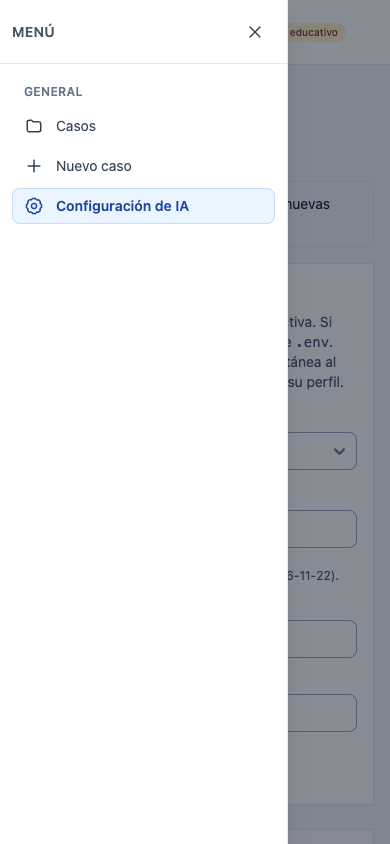
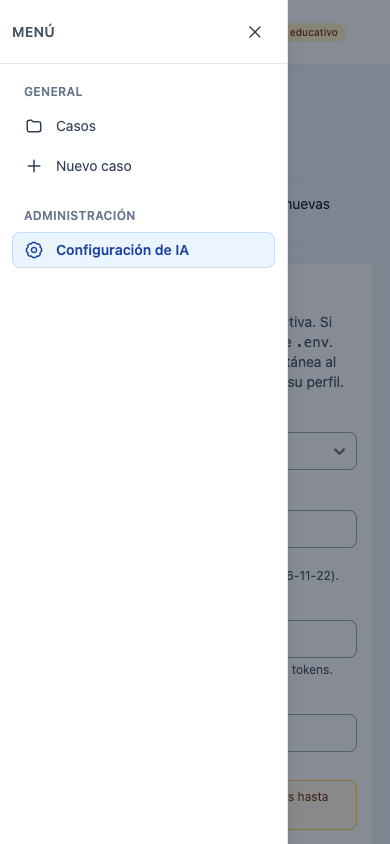
docs(005): record administration nav and local model semantics

diff --git a/docs/evidencia/005-configuracion-ui/README.md b/docs/evidencia/005-configuracion-ui/README.md
@@ -7,19 +7,24 @@ no aceptados; T039 real pendiente.
 
 ## Ruta
 
-`/settings/ai` — «Configuración de IA» en el menú **General**, fuera del contexto de un caso.
+`/settings/ai` — «Configuración de IA» en el grupo **Administración** del menú principal, fuera del
+contexto de un caso y disponible en escritorio y móvil. «Administración» solo agrupa opciones; no
+implica autenticación ni roles.
 
 ## Funcionalidad
 
 - Selección explícita: Local — Ollama, DeepSeek, Claude — Anthropic.
-- Modelo asociado, máximo de tokens de salida y tiempo máximo por llamada.
+- Modelo asociado, máximo de tokens de salida (solo externos) y tiempo máximo por llamada.
+- **Ollama**: sin claves, sin presupuesto monetario y sin cuota comercial. La reserva de salida se
+  administra automáticamente dentro del contexto técnico; no se solicita cuota de tokens. Se muestra
+  «Ejecución local; sin cobro por tokens de API» sin afirmar costo operativo total cero.
 - Guardado en SQLite; sin editar código ni reiniciar el servidor.
 - Perfiles independientes por proveedor; cambiar de proveedor no arrastra modelos ni sobrescribe
   parámetros de otro.
-- Resumen de configuración activa, presupuestos global y por turno (USD) y disponibilidad de
-  credenciales.
+- Resumen de configuración activa, presupuestos externos global y por turno (USD) y disponibilidad
+  de credenciales.
 - Claves: solo «Clave configurada» / «Clave pendiente» / «No requiere». No se envían valores,
-  fragmentos ni máscaras.
+  fragmentos ni máscaras; presencia no equivale a credencial válida ni conexión verificada.
 - Conexión: «No verificada». Guardar no verifica conexión ni autoriza gasto.
 - Proveedor externo con presupuesto cero:
   «Configurado; consultas externas bloqueadas hasta autorizar presupuesto.»
@@ -29,9 +34,11 @@ no aceptados; T039 real pendiente.
 1. Selección guardada en `ai_configuration`/`ai_provider_profiles`.
 2. Si no existe, valores iniciales de `Settings`/`.env`.
 3. `.env` conserva claves, endpoints y presupuestos; la interfaz no lo modifica.
-4. `SECGUARD_GENERATION_MODEL` vacío usa el modelo predeterminado del proveedor cuando no hay
+4. Los límites externos se validan contra el proveedor/modelo seleccionado, no contra el proveedor
+   inicial de la aplicación.
+5. `SECGUARD_GENERATION_MODEL` vacío usa el modelo predeterminado del proveedor cuando no hay
    selección guardada.
-5. Cada turno toma una instantánea; una consulta en curso conserva proveedor, modelo, límites,
+6. Cada turno toma una instantánea; una consulta en curso conserva proveedor, modelo, límites,
    timeout y autorización.
 
 ## Variables de `.env` (sin secretos)
@@ -62,14 +69,15 @@ confirmado» y no declara conexión aprobada. Un modelo confirmado de otro prove
 
 ```text
 make check
-  → 670 passed, 37 deselected, 17 warnings
+  → 677 passed, 37 deselected, 17 warnings
 ```
 
 | Prueba | Resultado |
 |---|---|
-| `tests/unit/test_ai_config_service.py` | 7 passed |
-| `tests/contract/test_ai_settings_routes.py` | 10 passed |
+| `tests/unit/test_ai_config_service.py` | 9 passed |
+| `tests/contract/test_ai_settings_routes.py` | 12 passed |
 | `tests/unit/test_ai_config_turn.py` | 4 passed |
+| `tests/contract/test_chat_resource_cleanup.py` | 3 passed |
 | Regresión R1–R3 | verde dentro de `make check` |
 
 Playwright (servidor local con almacenamiento temporal, `.env` real solo leído):
@@ -80,8 +88,9 @@ Playwright (servidor local con almacenamiento temporal, `.env` real solo leído)
 - Cambio a Ollama y regreso a DeepSeek conserva 64/12.5 del perfil DeepSeek.
 - Móvil 390×844: menú general, foco en cerrar, Escape, sin overflow (`scrollWidth == clientWidth`).
 - Consola: 0 errores.
-- Capturas: `settings-desktop.png`, `settings-saved-deepseek.png`, `settings-mobile.png`,
-  `settings-mobile-menu.png`. No contienen claves.
+- Capturas: `settings-desktop-local.png`, `settings-desktop-external.png`,
+  `settings-saved-deepseek.png`, `settings-mobile.png`, `settings-mobile-menu.png`. No contienen
+  claves.
 
 ## Garantías conservadas
 
@@ -96,6 +105,8 @@ Playwright (servidor local con almacenamiento temporal, `.env` real solo leído)
 
 - No se ejecutaron llamadas externas reales; las claves están configuradas pero no hay presupuesto
   autorizado en esta instrucción.
+- Ollama funciona con presupuesto externo cero o agotado y no crea reservas económicas externas.
+- El cierre de recursos propios se probó en éxito, error de modelo y fallo de preparación.
 - Guardar no prueba la conexión ni el modelo; no hay botones de prueba automática.
 - No se hace conteo remoto durante el guardado.
 - T039 real sigue pendiente.

diff --git a/.specify/memory/constitution.md b/.specify/memory/constitution.md
@@ -574,7 +574,7 @@ es un enlace simbólico a ese archivo. NO se mantienen dos documentos editados p
 | 2026-11-22 | 005 Entrega 1 implementada: configuración explícita, protocolo/registro común, Ollama operativo, `ToolDecision.arguments` tipado, migración aditiva y evidencia con proveedor/identidad/costo no aplicable | Estado de implementación | IV, VIII, XI, XIII | Evidencia en `docs/evidencia/005-entrega-1/`; `make check` 585 passed; regresión real con Ollama/Qdrant verde; los proveedores externos siguen sin implementar y 005 no se declara aceptada |
 | 2026-11-22 | 005 Entrega 2 implementada: adaptadores DeepSeek/Anthropic, contexto por proveedor, costo, presupuesto, autorización por caso, bloqueo de herramientas importadas, redacción y evidencia de uso | Estado de implementación | IV, VIII, XI, XIII | Evidencia en `docs/evidencia/005-entrega-2/`; pruebas contra transporte HTTP simulado; sin llamadas reales ni presupuesto aprobado; ningún proveedor externo se declara aceptado en uso real; 005 no aceptada |
 | 2026-11-22 | 005 Entrega 3: correcciones R1–R3, comparación local con Ollama real, comparación externa simulada y regresión final; aceptación local parcial | Estado de implementación | IV, VIII, IX, XI, XIII | Evidencia en `docs/evidencia/005-entrega-3/`; `make check` 649 passed; `make test-integration` 37 passed; 8/8 citas y 2/2 abstenciones en 10 preguntas ficticias; T039 real pendiente; proveedores externos no medidos ni aceptados; sin presupuesto aprobado |
-| 2026-11-22 | 005 Configuración de IA desde `/settings/ai`: selección de proveedor/modelo/límites no secretos persistida en SQLite, perfiles independientes y instantánea por turno; claves, endpoints y presupuestos permanecen en `.env` | Estado de implementación | IV, VIII, XI, XIII | Evidencia en `docs/evidencia/005-configuracion-ui/`; `make check` 669 passed; sin llamadas externas al abrir/guardar; guardar no verifica conexión ni autoriza gasto; T039 externo real sigue pendiente |
+| 2026-11-22 | 005 Configuración de IA desde `/settings/ai` (grupo Administración): selección de proveedor/modelo/límites no secretos persistida en SQLite, perfiles independientes y instantánea por turno; Ollama sin cuota comercial ni presupuesto monetario, límites externos por proveedor/modelo; claves, endpoints y presupuestos permanecen en `.env` | Estado de implementación | IV, VIII, XI, XIII | Evidencia en `docs/evidencia/005-configuracion-ui/`; `make check` 669 passed; sin llamadas externas al abrir/guardar; guardar no verifica conexión ni autoriza gasto; T039 externo real sigue pendiente |
 | Pendiente | Evidencia de acuerdo de Cristian Quebrada y Ruben Dario Sabogal para la enmienda 1.3.0 | Pendiente | Gobernanza | La ratificación del responsable está registrada; no se inventan acuerdos del equipo |
 | Pendiente | Presupuesto API para Claude Haiku / DeepSeek | Pendiente | IV, XI | No se activan llamadas pagadas ni se crean cuentas |
 | Pendiente | Selección del proveedor API y del canal definitivo de acción | Pendiente | IV, XIV | Requiere evidencia de 005/006; no se declara ganador |

diff --git a/docs/planificacion/005-ultimo-resultado.md b/docs/planificacion/005-ultimo-resultado.md
@@ -106,27 +106,34 @@ T039 real pendiente. T042 registra aceptación parcial, no integral.
 
 ## Configuración de IA desde la interfaz (T043–T048)
 
-- Ruta `/settings/ai`, en el menú General, fuera de un caso.
-- Selección de proveedor, modelo, máximo de salida y timeout; guardado en SQLite mediante
+- Ruta `/settings/ai`, en el grupo **Administración** del menú general, fuera de un caso y disponible en escritorio y móvil. El grupo no implica autenticación ni roles.
+- Selección de proveedor, modelo, máximo de salida (solo externos) y timeout; guardado en SQLite mediante
   `ai_configuration` y `ai_provider_profiles` (migración `f7a8b9c0d1e2`).
 - Precedencia: configuración guardada > `Settings`/`.env`; `.env` conserva claves, endpoints y
   presupuestos y no se modifica. `SECGUARD_GENERATION_MODEL` vacío usa el modelo predeterminado.
 - Perfiles independientes por proveedor; cambiar de proveedor no arrastra modelos ni sobrescribe
   parámetros de otro.
+- Ollama no exige clave ni presupuesto monetario; su reserva de salida es automática dentro del
+  contexto técnico y se muestra «Ejecución local; sin cobro por tokens de API». No se afirma costo
+  operativo cero.
+- Los límites externos se validan contra el proveedor/modelo seleccionado; cambiar de proveedor no
+  arrastra modelos ni altera consultas en curso.
 - Cada turno usa una instantánea; una consulta en curso conserva su perfil. Los reintentos usan la
   autorización vigente y registran los parámetros efectivos.
+- Los recursos propios del turno (generador, contador, embeddings e índice) se cierran en éxito,
+  error y fallo de preparación; no se cierran recursos inyectados o compartidos.
 - El formulario muestra presupuestos global/por turno, moneda y «Clave configurada»/«Clave
   pendiente»; nunca valores, fragmentos ni máscaras. Conexión: «No verificada».
 - Un externo con presupuesto cero muestra «Configurado; consultas externas bloqueadas hasta
   autorizar presupuesto». Guardar no autoriza gasto ni envía datos.
 - No hay llamadas externas ni conteo remoto al abrir o guardar.
 
-Pruebas nuevas: `tests/unit/test_ai_config_service.py` (7), `tests/contract/test_ai_settings_routes.py`
-(10) y `tests/unit/test_ai_config_turn.py` (4). Playwright validó escritorio y móvil, guardado,
+Pruebas nuevas: `tests/unit/test_ai_config_service.py` (9), `tests/contract/test_ai_settings_routes.py`
+(12) y `tests/unit/test_ai_config_turn.py` (4); cierre de recursos (3). Playwright validó escritorio y móvil, guardado,
 cambio de perfiles, mensajes, foco, Escape, ausencia de overflow y consola sin errores. Capturas en
 `docs/evidencia/005-configuracion-ui/`.
 
-`make check`: **670 passed**, 37 deselected.
+`make check`: **677 passed**, 37 deselected.
 
 ## Limitaciones
 

diff --git a/specs/005-generador-configurable/tasks.md b/specs/005-generador-configurable/tasks.md
@@ -8,7 +8,7 @@ checklists/requirements.md
 **Tests**: incluidas porque la constitución aplica test-first cuando existe una prueba determinista y
 un resultado esperado claro.
 
-**Estado**: T001–T038, T040–T042 y T043–T048 completadas. T039 real permanece pendiente por
+**Estado**: T001–T038, T040–T042 y T043–T049 completadas. T039 real permanece pendiente por
 ausencia de presupuesto y credenciales; su versión simulada está ejecutada. 005 tiene aceptación
 local parcial; no se declara aceptación de proveedores externos ni se realizaron llamadas externas
 pagadas.
@@ -423,6 +423,15 @@ regresión completa verde; documentación final y decisión de aceptación basad
   - Dep: T047
   - Check: documentación vigente sin secretos; T039 sigue pendiente.
   - Evidence: diffs y `docs/evidencia/005-configuracion-ui/README.md`.
+
+- [x] T049 Ajustar la configuración local sin cuotas comerciales, validar límites externos por
+  proveedor/modelo, mover «Configuración de IA» a Administración y cerrar recursos propios del turno.
+  - Story: UI
+  - Dep: T048
+  - Check: Ollama funciona con presupuesto externo cero; límites externos por proveedor; recursos
+    cerrados en éxito/error/preparación; Playwright escritorio y móvil.
+  - Evidence: `tests/unit/test_ai_config_service.py`, `tests/contract/test_ai_settings_routes.py`,
+    `tests/contract/test_chat_resource_cleanup.py`, `docs/evidencia/005-configuracion-ui/`.
 
 ## Dependencias y orden
 

diff --git a/specs/005-generador-configurable/spec.md b/specs/005-generador-configurable/spec.md
@@ -350,5 +350,15 @@ sin editar código ni reiniciar el servidor. Las claves y presupuestos siguen en
   Qualys y datos privados, los presupuestos y reservas, LangSmith independiente, embeddings locales,
   Qdrant y la ausencia de fallback.
 
+- **FR-045**: Ollama MUST NOT exigir claves ni presupuesto monetario, MUST NOT aplicar reservas
+  económicas externas y MUST administrar automáticamente la reserva de salida dentro del contexto
+  técnico. MOSTRAR «Ejecución local; sin cobro por tokens de API» sin afirmar costo operativo cero.
+- **FR-046**: Los límites de salida y tiempo de proveedores externos MUST validarse contra el
+  proveedor/modelo seleccionado, no contra el proveedor inicial de la aplicación.
+- **FR-047**: Los recursos propios del turno (generador, contador, embeddings e índice) MUST
+  cerrarse en éxito, error y fallo de preparación, sin cerrar recursos inyectados o compartidos.
+- **FR-048**: «Configuración de IA» MUST ubicarse en el grupo «Administración» del menú general,
+  disponible en escritorio y móvil; el grupo no implica autenticación ni roles.
+
 - **SC-007**: La configuración guardada se aplica a la consulta siguiente, una consulta en curso
   conserva su perfil y los secretos no aparecen en HTML, logs ni evidencia.

diff --git a/AGENTS.md b/AGENTS.md
@@ -52,8 +52,8 @@ aceptación externa real pendiente; Telegram no está implementado.
 
 **005 Entregas 1–3 completadas (2026-11-22):** `specs/005-generador-configurable/` define la
 selección explícita del generador entre Ollama local, DeepSeek (`deepseek-flash`) y Anthropic Claude
-Haiku (`claude-haiku-5-5`). La página `/settings/ai` permite seleccionar proveedor, modelo y límites
-no secretos, persistidos en SQLite con precedencia sobre `Settings`/`.env`; cada turno toma una
+Haiku (`claude-haiku-5-5`). La página `/settings/ai`, dentro del grupo **Administración**, permite seleccionar proveedor, modelo
+y límites no secretos, persistidos en SQLite con precedencia sobre `Settings`/`.env`; cada turno toma una
 instantánea y `.env` conserva claves, endpoints y presupuestos. Ollama está operativo; DeepSeek/Anthropic tienen adaptadores, contexto,
 costo, presupuesto, autorización por caso, bloqueo de herramientas importadas, redacción y evidencia
 de uso, probados **solo contra transporte HTTP simulado**; la comparación local con Ollama real está

diff --git a/docs/planificacion/handoff-005.md b/docs/planificacion/handoff-005.md
@@ -43,14 +43,17 @@
 
 ## 2.1 Configuración de IA en la interfaz (T043–T048)
 
-- Página `/settings/ai` en el menú General.
+- Página `/settings/ai` en el grupo **Administración** del menú general, escritorio y móvil.
 - Tablas `ai_configuration`/`ai_provider_profiles`; migración `f7a8b9c0d1e2`.
 - Precedencia: guardado > `Settings`/`.env`; `.env` no se modifica.
 - Perfiles independientes; instantánea por turno y reintento.
-- Presupuestos informativos; claves solo como «Clave configurada»/«Clave pendiente».
+- Ollama sin clave, presupuesto ni cuota comercial; reserva de salida automática y mensaje local.
+- Presupuestos externos informativos; claves solo como «Clave configurada»/«Clave pendiente».
+- Límites externos validados por proveedor/modelo; recursos del turno cerrados en éxito, error y
+  preparación fallida.
 - Cero llamadas externas al abrir/guardar; sin conteo remoto.
 - Evidencia y capturas: `docs/evidencia/005-configuracion-ui/`.
-- `make check`: 670 passed.
+- `make check`: 677 passed.
 
 ## 3. T039 — Pendiente real
 

diff --git a/specs/005-generador-configurable/plan.md b/specs/005-generador-configurable/plan.md
@@ -152,6 +152,10 @@ errores, dependencias, razonamiento y comparación.
 - `resolve_turn_settings` toma una instantánea por turno; `_run_generation` construye generador,
   contador, budget y timeout desde esa instantánea.
 - La UI no modifica `.env`, no llama proveedores ni cuenta tokens remotos.
+- Ollama no usa presupuesto monetario; su reserva de salida es automática dentro del contexto. Los
+  límites externos se validan por proveedor/modelo. «Configuración de IA» vive en Administración.
+- `_run_generation` cierra generador, contador, embeddings e índice solo cuando son propiedad del
+  turno; conserva el release del permiso global.
 - Autorización por caso, Qualys, presupuestos, LangSmith, Qdrant y embeddings no cambian.
 
 ## Phase 2 — Tasks

diff --git a/README.md b/README.md
@@ -255,7 +255,7 @@ propia, accesible por URL y con su ruta de navegación visible:
 |---|---|
 | `/cases` | Casos |
 | `/cases/new` | Nuevo caso |
-| `/settings/ai` | Configuración de IA (proveedor, modelo, límites) |
+| `/settings/ai` | Configuración de IA (proveedor, modelo, límites), dentro del grupo **Administración** |
 | `/cases/{case_id}` | Resumen del caso (contexto y activos) |
 | `/cases/{case_id}/documents` | Documentos (carga, estados, versiones, reintentos) |
 | `/cases/{case_id}/vulnerabilities` | Vulnerabilidades: formulario, preview, confirmación y snapshot |
